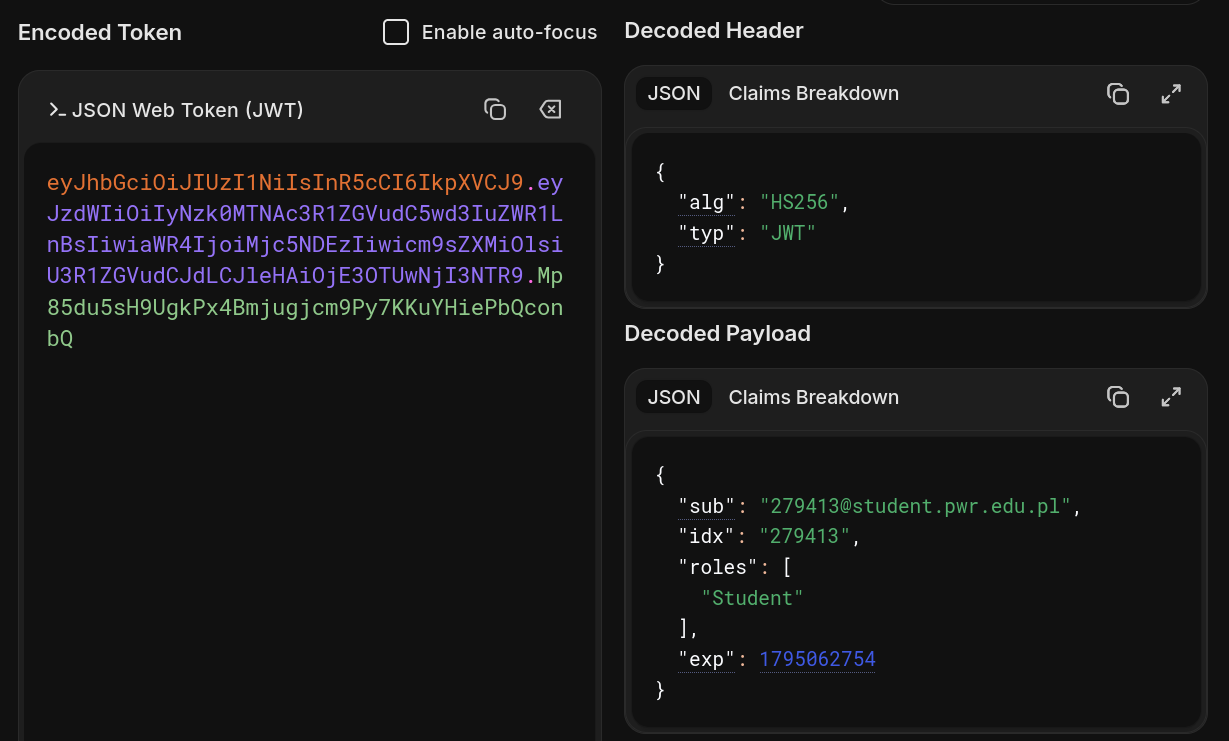
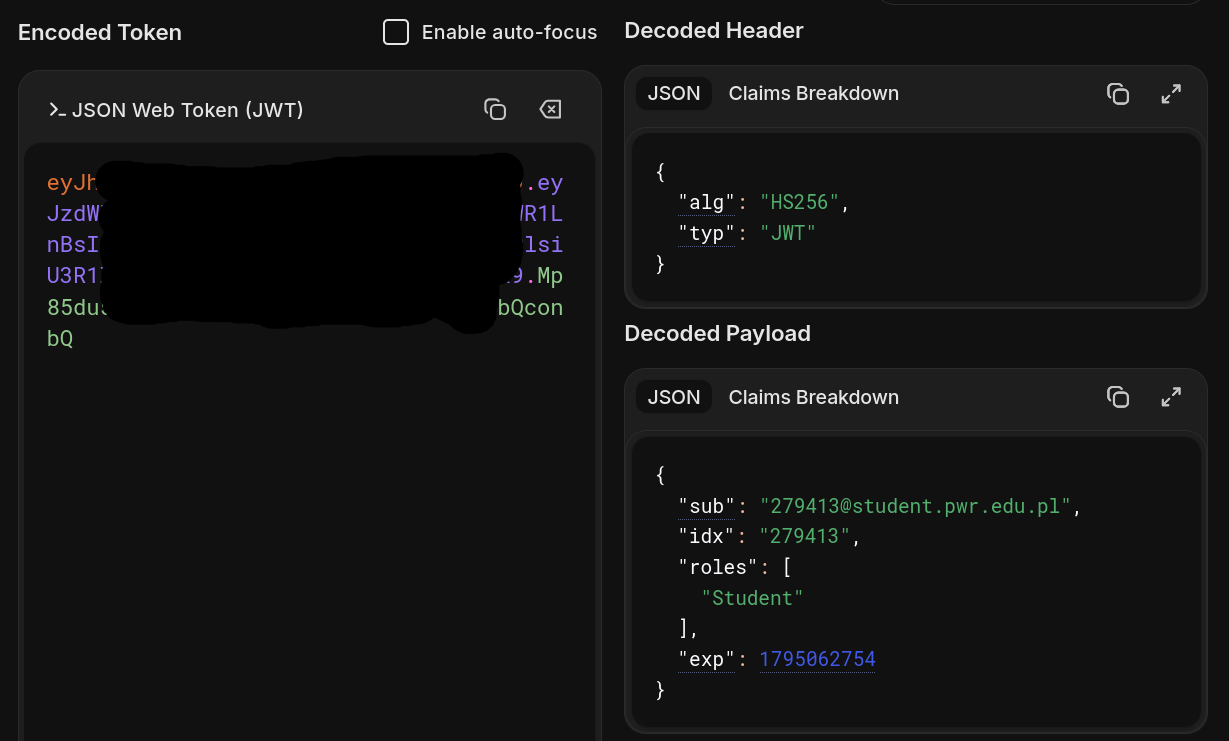
uops

Changed region(s): [[0.0928, 0.2173, 0.4329, 0.4345]]

diff --git a/praca/brudnopis/Rozdział 4/Implementacja.md b/praca/brudnopis/Rozdział 4/Implementacja.md
@@ -1504,7 +1504,7 @@ Token jest podpisywany algorytmem HS256, czyli kodem HMAC z funkcją skrótu SHA
   "email": "279413@student.pwr.edu.pl",
   "idx": "279413",
   "roles": ["Student"],
-  "token": "eyJhbGciOiJIUzI1NiIsInR5cCI6IkpXVCJ9.eyJzdWIiOiIyNzk0MTNAc3R1ZGVudC5wd3IuZWR1LnBsIiwiaWR4IjoiMjc5NDEzIiwicm9sZXMiOlsiU3R1ZGVudCJdLCJleHAiOjE3OTUwNjI3NTR9.Mp85du5sH9UgkPx4Bmjugjcm9Py7KKuYHiePbQconbQ"
+  "token": "eyJhbGciO...iePbQconbQ"
 }
 ```
 
